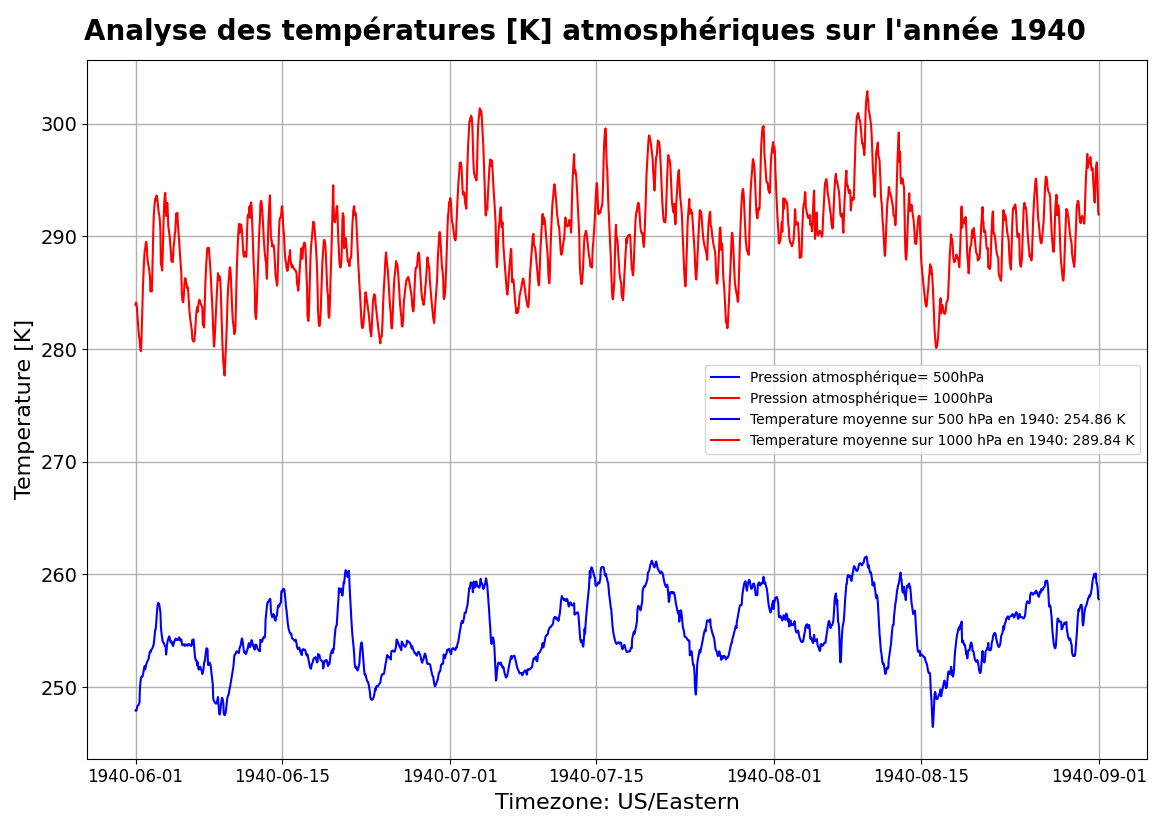
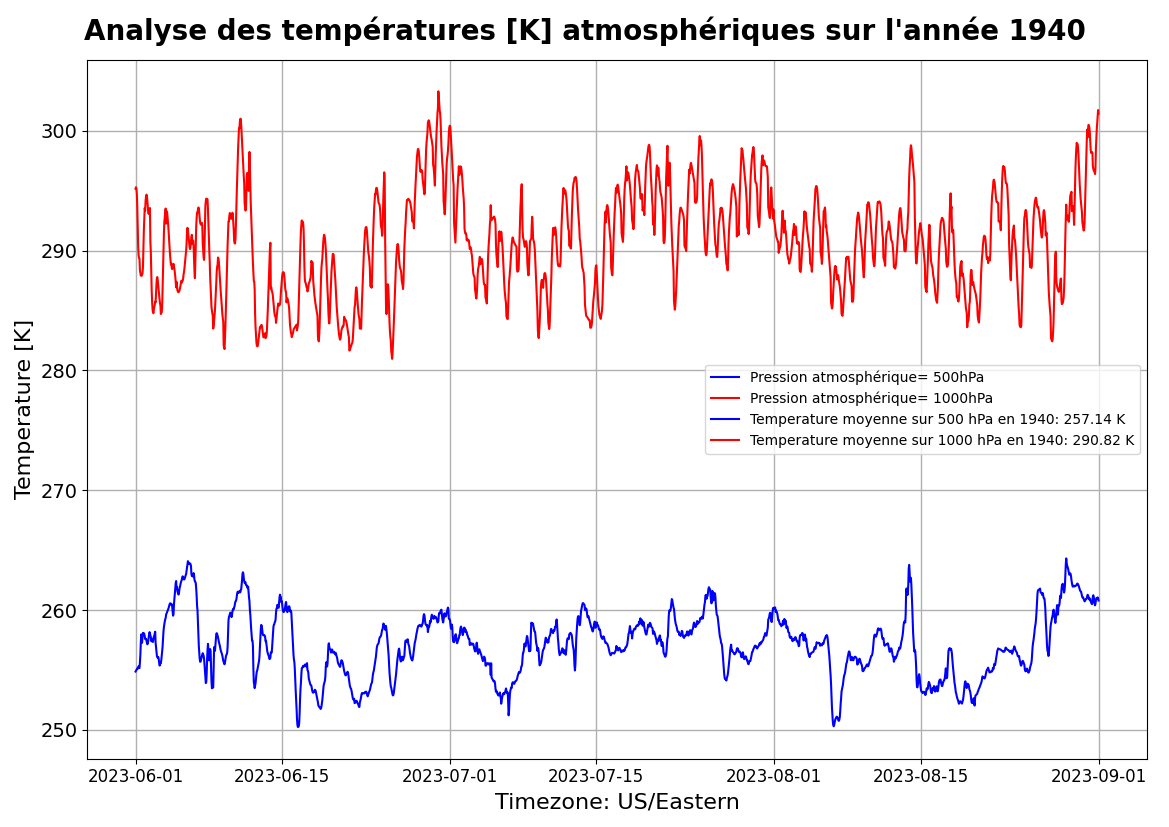
change script

diff --git a/projet_final.py b/projet_final.py
@@ -10,12 +10,20 @@ import csv
 Installation de la librairie à requérir: 
 pip install netCDF4
 
-Test pour la zone Amérique du Nord pour les 3 années à relever pour l'année 2021 à 2023 entre le mois juin à Aout 
-Sub-region-extraction for North America: 
+Test de relevé de températures pour la zone Amérique du Nord pour les 3 années à relever pour l'année 2021 à 2023 entre le mois juin à Aout
+Test de relevé de températures la France pour les 3 années à relever pour l'année 2021 à 2023 entre le mois juin à Aout 
+
+Coordinates from North America: 
 North = 60
 West = -108
 East = -20
 South = -90 
+
+Coordinates from France: 
+North = 51.75
+West = -5.75 
+East = 9.75
+South = 43.75
 """
 
 def generate_dataframe(ref_date,date_range,temp_data_500,temp_data_1000):
@@ -111,20 +119,20 @@ def show_visualise():
 
 #Points latittude et longitude à relever pour une zone géographique
 
-#Test des points de dimension pour l'Amerique du Nord
-#point_lat = np.arange(60, 19.75, -0.25) 
-#point_long = np.arange(-108, -19.75, 0.25)
+#Test des points de dimension pour l'Amerique du Nord 
+point_lat = np.arange(60, 19.75, -0.25) 
+point_long = np.arange(-108, -19.75, 0.25)
 
 #Test des points de dimension pour la France
-point_lat = np.arange(28, -19.75, -0.25) 
-point_long = np.arange(19.25, 364, 0.25)
+#point_lat = np.arange(28, -19.75, -0.25) 
+#point_long = np.arange(19.25, 364, 0.25)
 
 year = ["1940","2023"]
 
 # Chemin des fichiers
-#chemin_fichier_nc = f'data/{year[0]}_north_america.nc' #1940 pour Amérique du Nord
+chemin_fichier_nc = f'data/{year[0]}_north_america.nc' #1940 pour Amérique du Nord
 #chemin_fichier_nc = f'data/{year[1]}_north_america.nc' #2023 pour Amérique du Nord
-chemin_fichier_nc = 'data/France.nc'   #Pour la France entre 2021 à 2023 
+#chemin_fichier_nc = 'data/France.nc'   #Pour la France entre 2021 à 2023 
 
 path_to_csv = "./data" 
 filename_temp_csv = "temp.csv"
@@ -172,8 +180,8 @@ print(df)
 
 #Test de visualisations 
 
-#visualize_temp(year[0]) #Année 1940 en Amérique du Nord
+visualize_temp(year[0]) #Année 1940 en Amérique du Nord
 #visualize_temp(year[1]) #Annéee 2023 en Amérique du Nord
-visualize_temp_fr() #Année de 2021 à 2023 en France
+#visualize_temp_fr() #Année de 2021 à 2023 en France
 show_visualise() #Affichage de la visualisation 
 
